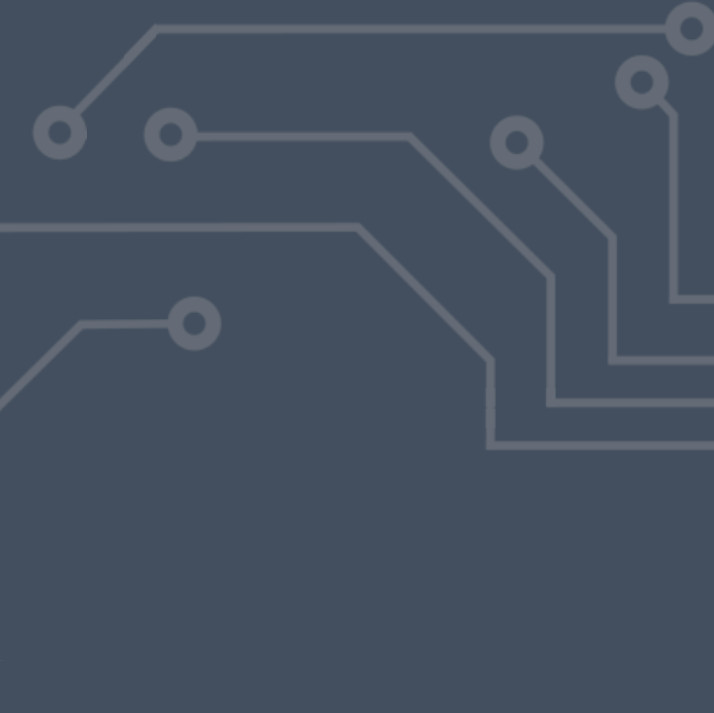
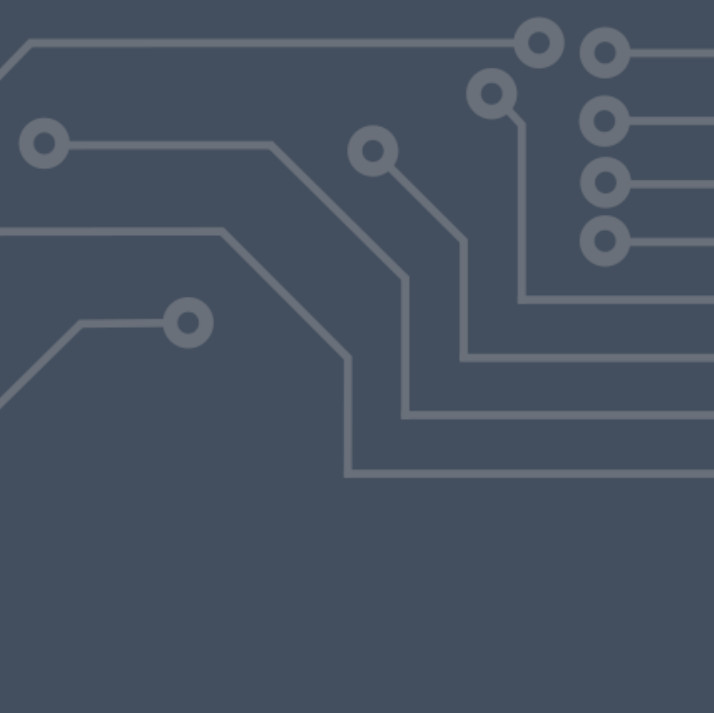
feat: Ajout de l'onglet setup, modifications de couleurs automate

diff --git a/scripts/debug.js b/scripts/debug.js
@@ -15,6 +15,9 @@ let gpColorPWM = [0,0,0]
 let mot = [0,0]
 let maxMot = [0,0]
 
+let flagMot = [0,0]
+let textFlagMot = ["",""]
+
 let sunElev;
 let sunAsimut;
 let sunShader;
@@ -35,7 +38,7 @@ function lectureCarte(){
     IPAdress = localStorage.getItem("IP");
 
     $.ajax({
-        url: "http://"+ IPAdress +"/zns.cgi?zns.cgi?cmd=d&p=ios",
+        url: "http://"+ IPAdress +"/zns.cgi?cmd=d&p=ios",
         context: document.body
       }).done(function(data){
 
@@ -50,7 +53,7 @@ function lectureCarte(){
                 // gpi[i] = parseInt(data.all[(i+2)].textContent)/1000
                 gpi[i] = parseInt(getElementCarte(data, "gpi"+i))
             }
-            
+
             for(let i = 0; i < 8; i++){
                 //GPO
                 // gpO[i] = parseInt(getValue(data,(i+8),1))/1000
@@ -59,7 +62,7 @@ function lectureCarte(){
                 // gpPWM[i] = parseInt(getValue(data,(i+8),0))
                 gpPWM[i] = parseInt(getValue(getElementCarte(data, "gpo" + i),0))
             }
-            
+
             for(let i = 8; i < 11; i++){
                 //RGB
                 // gpColor[i] = parseInt(getValue(data,(i+16),0))
@@ -69,13 +72,16 @@ function lectureCarte(){
                 gpColorPWM[i] = parseInt(getValue(getElementCarte(data, "gpo" + i),1))
             }
 
+            textFlagMot = ["",""]
             for(let i = 0; i < 2; i++){
                 //mot
                 // mot[i] = parseInt(getValue(data,(i+24),0))
-                mot[i] = parseInt(getValue(getElementCarte(data, "Mot0"),0))
+                mot[i] = parseInt(getValue(getElementCarte(data, "Mot" + i),0))
                 //maxMot
                 // maxMot[i] = parseInt(getValue(data,(i+24),1))
-                maxMot[i] = parseInt(getValue(getElementCarte(data, "Mot0"),1))
+                maxMot[i] = parseInt(getValue(getElementCarte(data, "Mot" + i),1))
+                flagMot[i] = parseInt(getValue(getElementCarte(data, "Mot" + i),2))
+                applyFlagMot(flagMot, i)
             }
 
             // sunElev = parseInt(data.all[27].textContent) //s_elev
@@ -86,7 +92,7 @@ function lectureCarte(){
             sunShader = parseInt(getElementCarte(data, "s_prj"));
 
       }).fail(function() {
-    });	
+    });
 
 	$.ajax({
         url: "http://"+ IPAdress +"/zns.cgi?cmd=c",
@@ -98,7 +104,7 @@ function lectureCarte(){
             pergLong = parseInt(getElementCarte(data, "lon"))
             // pergLat = parseInt(data.all[7].textContent)/100 //lat
             pergLat = parseInt(getElementCarte(data, "lat"))
-			
+
       }).fail(function() {
     });
 }
@@ -130,7 +136,7 @@ function affichageInfos(){
     $(bloc1).append("<hr>")
     $(bloc1).append("<li>Board temp= <span>" + boardTemp + "°C</span></li>")
     $(bloc1).append("<li>MOS temp= <span>" + MosTemp + "°C</span></li>")
-    
+
     $(bloc2).append("<h4>GPI</h4>")
     $(bloc2).append("<hr>")
     for(let i = 0; i < 6; i++){
@@ -149,7 +155,7 @@ function affichageInfos(){
     $(bloc4).append("<h4>Other</h4>")
     $(bloc4).append("<hr>")
     for(let i = 0; i < 2; i++){
-        $(bloc4).append("<li>Moteur #" + i + "= <span>" + mot[i] + "</span> / <span>" + maxMot[i] + " count</span></li>")
+        $(bloc4).append("<li>Moteur #" + i + "= <span>" + mot[i] + "</span> / <span>" + maxMot[i] + " count " + textFlagMot[i]+ "</span></li>")
     }
 
     $(bloc4).append("<hr>")
@@ -160,8 +166,8 @@ function affichageInfos(){
     $(bloc4).append("<li>Sun elevation= <span>" + sunElev + "°</span></li>")
     $(bloc4).append("<li>Sun azimut= <span>" + sunAsimut + "°</span></li>")
     $(bloc4).append("<li>Sun projection on shaders= <span>" + sunShader + "°</span></li>")
-    
-    //CSS de la génération 
+
+    //CSS de la génération
     $("span").css("color","white")
     $("h4").css({
         "font-size": "medium",
@@ -183,14 +189,14 @@ function affichageInfos(){
                 "display ": "grid",
                 "grid-template-columns": "1fr"
             });
-    
+
             $("h4").css("margin-top","15px")
         }else{
             $("ul").css({
                 "display ": "grid",
                 "grid-template-columns": "1fr 1fr"
             });
-        }   
+        }
     }
     else{
         $("ul").css({
@@ -201,12 +207,27 @@ function affichageInfos(){
 
 }
 
+function applyFlagMot(flagMot, id){
+    console.log(flagMot+ "->" +id)
+    if ( flagMot[id] & 1 )
+        textFlagMot[id] += ' [HOME_SET]';
+    if ( flagMot[id] & 2 )
+        textFlagMot[id] += ' [CURRENT_STOP]';
+    if ( flagMot[id] & 4 )
+        textFlagMot[id] += ' [RAIN_FLAG]';
+    if ( flagMot[id] & 16 )
+        textFlagMot[id] += ' [PID_UNLOCK_ERR]';
+    if ( flagMot[id] & 32 )
+        textFlagMot[id] += ' [TIMEOUT_ERR]';
+
+    console.log( textFlagMot+ "==>" +textFlagMot[id]+ "->" +id)
+}
+
 
 $(document).ready(function(){
     //Actualisation des informations, refresh
-    setInterval(function(){ 
+    setInterval(function(){
         lectureCarte()
         affichageInfos()
     }, 1000);
 });
-

diff --git a/index.htm b/index.htm
@@ -136,6 +136,7 @@
                     </div>
                 </a>
 
+                 <!-- ============================================== Widget automate ============================================== -->
                 <a>
                     <div class="automate_widget widget">
                         <div class="icon">
@@ -146,30 +147,45 @@
                         <h1 id="titreWidgetAutomate"></h1>
                     </div>
                 </a>
-                    
-                    
-                
-                <!-- ======================== futur widhet météo ======================== -->
-                <!-- <a href="pages/station_meteo.html">
-                    <div class="station_meteo_widget widget">
+                 <!-- ============================================== Widget setup ============================================== -->
+                 <a class="setup">
+                    <div class="setup_widget widget" data-bs-target="#exampleModalCenter" data-bs-toggle="modal">
                         <div class="icon">
                             <div id="score" class="flex-container">
-                                <img src="resources/icons/widgets_light/lamp.png" alt="image de test">
+                                <img src="resources/icons/widgets_light/setup.png" alt="image de test">
                             </div>
                         </div>
-                        <h1>Station météo</h1>
+                        <h1 id="titreWidgetSetup"></h1>
                     </div>
-                </a> -->
+                </a>
             </div>
+        </div>
 
+        <!-- =================================== MODAL setup ================================= -->
+        <div class="modal fade" id="exampleModalCenter" tabindex="-1" aria-labelledby="exampleModalLabel1" aria-hidden="true">
+            <div class="modal-dialog modal-dialog-centered">
+              <div class="modal-content">
+                  <div class="modal-body mb-setup">
+                      <h5 class="modal-title mt-setup" id="exampleModalLabel1">Accès administrateur</h5>
+                      <div class="form-group">
+                          <label for="exampleInputPassword1" id="textEntrerMDP">Entrez le mot de passe</label>
+                          <input type="password" width="100%" class="form-control pass" id="exampleInputPassword1">
+                      </div>
+                      <div class="group_overlay_button">
+                          <div class="overlay_button b_first_accueil" id="textConnexion">Connexion</div>
+                          <div class="overlay_button b_second" id="textAnnuler" data-bs-dismiss="modal">Annuler</div>
+                      </div>
+                  </div>
+              </div>
+            </div>
         </div>
         
         <!-- ============================================== Modal à propos ============================================== -->
-        <div class="modal fade" id="exampleModal" tabindex="-1" aria-labelledby="exampleModalLabel" aria-hidden="true">
+        <div class="modal fade" id="exampleModal" tabindex="-1" aria-labelledby="exampleModalLabel2" aria-hidden="true">
             <div class="modal-dialog test">
                 <div class="modal-content">
                     <div class="modal-header">
-                        <h5 class="modal-title" id="exampleModalLabel">Contactez Zenisun</h5>
+                        <h5 class="modal-title" id="exampleModalLabel2">Contactez Zenisun</h5>
                         <button type="button" class="btn-close" data-bs-dismiss="modal" aria-label="Close"></button>
                     </div>
                     <div class="modal-body">

diff --git a/scripts/theme.js b/scripts/theme.js
@@ -32,7 +32,8 @@ let colorParametreTitleS = "#9AC865"; //#9AC865
 let colorGuideTitreS = "#858FC8"; //#858FC8
 let colorStationMeteoTitleS = "#85C8C4"; //#85C8C4
 let colorConnexionTitleS = "#13A4F5" //#13A4F5
-let colorAutomateTitleS = "#E76E1F" //#E76E1F
+let colorAutomateTitleS = "#d07c4a" //#d07c4a
+let colorSetupTitleS = "#b85b5fff" //#b85b5fff
 
 
 $(document).ready(function(){
@@ -93,6 +94,7 @@ function themeSombre(){
     $(".station_meteo_widget").css('color', colorStationMeteoTitleS);
     $(".connexion_widget").css('color', colorConnexionTitleS);
     $(".automate_widget").css('color', colorAutomateTitleS);
+    $(".setup_widget").css('color', colorSetupTitleS);
 
     $(".eclairage_widget").css('background-image', "url(resources/background/widgets/fond_eclairage_sombre.jpg)");
     $(".lames-orientable_widget").css('background-image', "url(resources/background/widgets/fond_lames_orientables_sombre.jpg)");
@@ -102,7 +104,7 @@ function themeSombre(){
     $(".station_meteo_widget").css('background-image', "url(resources/background/widgets/fond_station_meteo_sombre.jpg)");
     $(".connexion_widget").css('background-image', "url(resources/background/widgets/fond_connexion_sombre.jpg)");
     $(".automate_widget").css('background-image', "url(resources/background/widgets/fond_automate_sombre.jpg)");
-
+    $(".setup_widget").css('background-image', "url(resources/background/widgets/fond_setup_sombre.jpg)");
    
     $(".wifi_widget img").attr('src', "resources/icons/widgets_dark/wifiSombre.png");
     $(".parametres_widget img").attr('src', "resources/icons/widgets_dark/settingsSombre.png");
@@ -110,6 +112,7 @@ function themeSombre(){
     $(".station_meteo_widget img").attr('src', "resources/icons/widgets_dark");
     $(".connexion_widget img").attr('src', "resources/icons/widgets_dark/connexionSombre.png");
     $(".automate_widget img").attr('src', "resources/icons/widgets_dark/automateSombre.png");
+    $(".setup_widget img").attr('src', "resources/icons/widgets_dark/setupSombre.png");
 }
 
 function getThemeEnregistre(){

diff --git a/styles/style_page_accueil.css b/styles/style_page_accueil.css
@@ -158,6 +158,11 @@ h1{
     background-size: cover;
 }
 
+.setup_widget{
+    background-image: url(../resources/background/widgets/fond_setup.jpg);
+    background-size: cover;
+}
+
 /* ========================== AUTRE ========================== */
 a{
     text-decoration: none;
@@ -238,3 +243,49 @@ aside p {
     display: -webkit-flex; /* NEW - Safari 6.1+. iOS 7.1+, BB10 */ 
     display: flex; /* NEW, Spec - Firefox, Chrome, Opera */
 }
+
+
+/* ==================== MODAL ============== */
+
+.modal-title{
+    margin: 20px;
+}
+.modal-body{
+    text-align: center;
+}
+.overlay_button{
+    color: white;
+    background-color: #52808B;
+    margin: 5px; 
+    margin-top: 20px;
+    padding: 5px;
+    padding-right: 10px;
+    padding-left: 10px;
+    border-radius: 3px;
+    cursor: pointer;
+}
+.group_overlay_button{
+    justify-content: center;
+    display: -webkit-box; /* OLD - iOS 6-, Safari 3.1-6, BB7 */ 
+    display: -ms-flexbox; /* TWEENER - IE 10 */ 
+    display: -webkit-flex; /* NEW - Safari 6.1+. iOS 7.1+, BB10 */ 
+    display: flex; /* NEW, Spec - Firefox, Chrome, Opera */
+}
+
+.b_second{
+    background-color: #84afb9; 
+}
+
+.image{
+    width: 50%;
+}
+input{
+    font-size: 0.75em !important;
+    line-height: normal;
+    font-family: roboto !important;
+}
+
+button, select, optgroup, textarea{
+    font-size: 0.8em !important;
+}
+

diff --git a/scripts/accueil.js b/scripts/accueil.js
@@ -259,6 +259,25 @@ function sync_date(){
 	});
 }
 
+// ================================ MAINTENANCE ================================
+
+$(".b_first").click(function(){
+	// console.log("oui t'as cliqué")
+	// console.log($(".modal-body input").val())
+	// console.log(typeof $(".modal-body input").val())
+	if($(".modal-body input").val() == "4682"){
+		window.location.href = "setup.html"
+	}
+});
+$(".b_first_accueil").click(function(){
+	// console.log("oui t'as cliqué")
+	// console.log($(".modal-body input").val())
+	// console.log(typeof $(".modal-body input").val())
+	if($(".modal-body input").val() == "4682"){
+		window.location.href = "pages/setup.html"
+	}
+});
+
 //Affichages des circles selon la config utilisateur
 function affichageCircle(hwcfg){
     console.log(hwcfg)

diff --git a/lang/lang.js b/lang/lang.js
@@ -224,6 +224,7 @@ function applicationAccueil(res){
     $("#titreWidgetParametres").text(res["widgets"]["ParaTitle"]);
     $("#titreWidgetConnexion").text(res["widgets"]["ConnexionTitle"]);
     $("#titreWidgetAutomate").text(res["widgets"]["AutomateTitle"]);
+    $("#titreWidgetSetup").text(res["widgets"]["SetupTitle"]);
 
     //==================== POPUP INFOS CONTACTS =================== 
     $("#exampleModalLabel").text(res["popupContact"]["titre"]);
